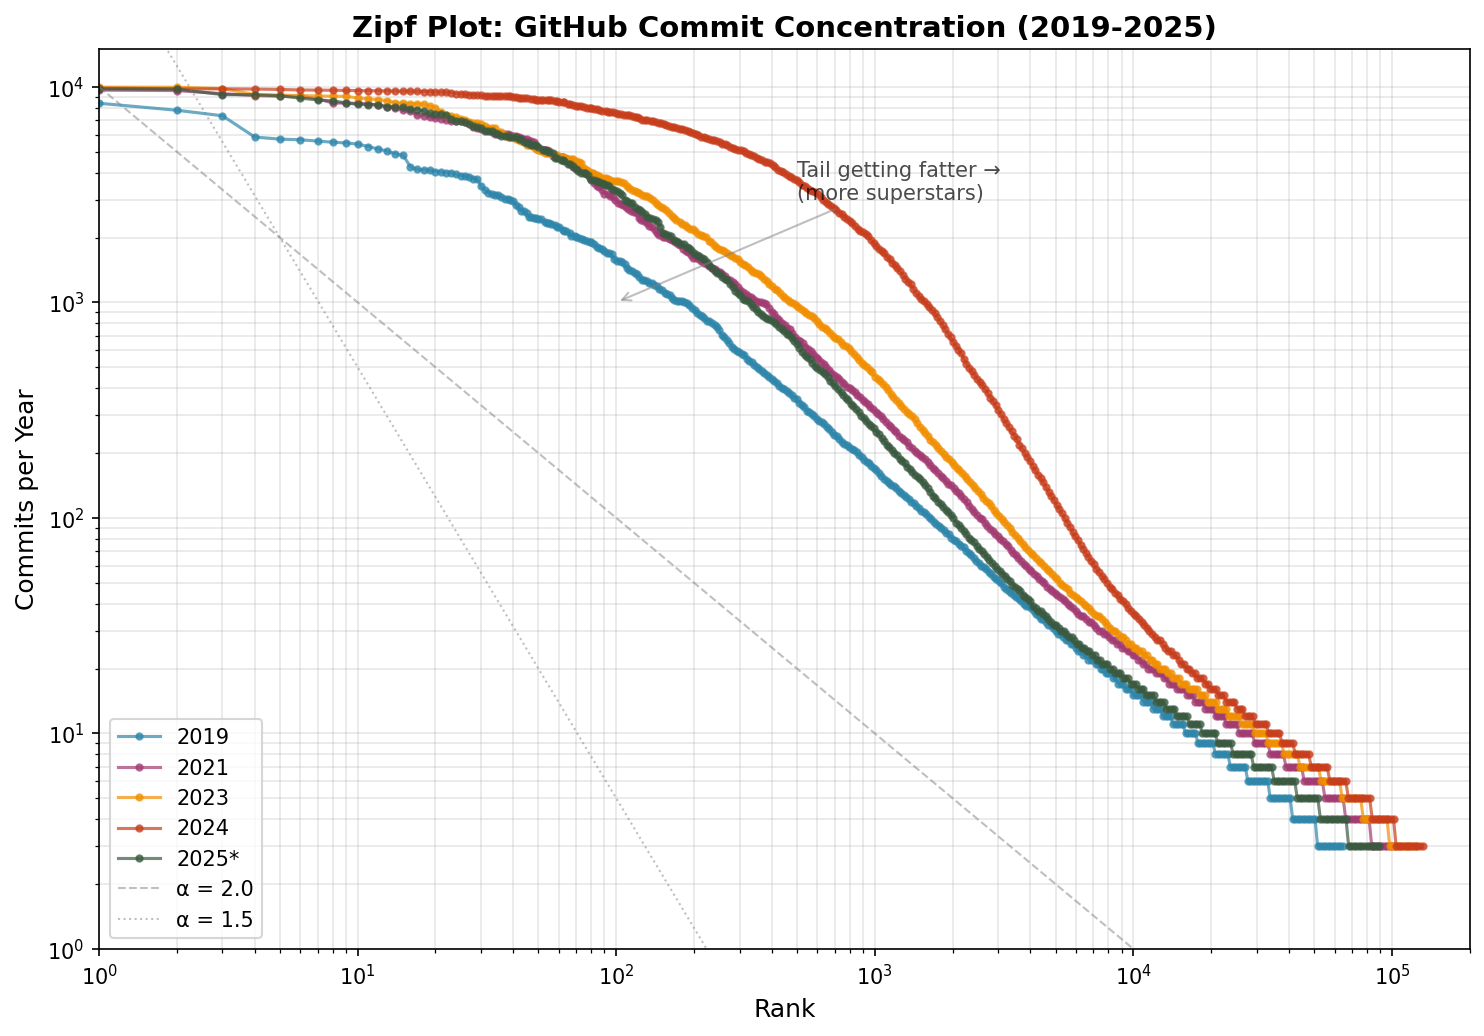
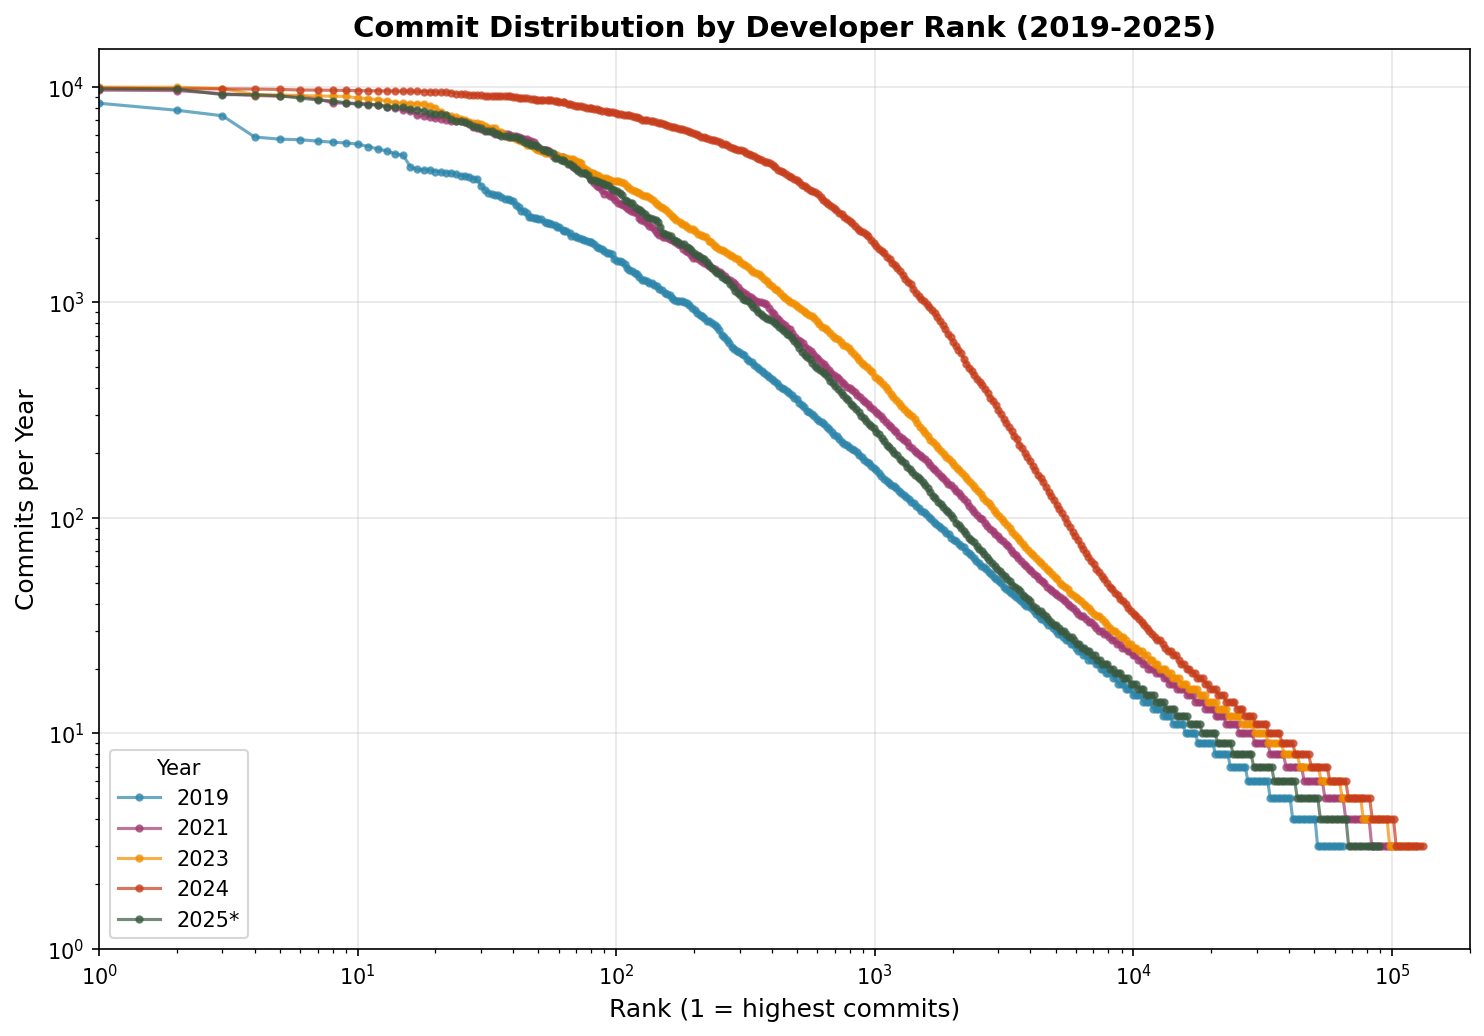
Improve introduction narrative and figure explanations
Key changes:
- Updated intro to include "rotating superstars" finding and counterfactual α
- Simplified Zipf plot: removed confusing reference lines, clearer axis labels
- Rewrote transition matrix section with proper methodology explanation
- Added "How to read this table" section explaining what the numbers mean
- Explained why decreasing persistence challenges "rich-get-richer" hypothesis

diff --git a/scripts/21_zipf_plot.py b/scripts/21_zipf_plot.py
@@ -80,29 +80,12 @@ def create_zipf_plot(df):
                   markersize=3, linewidth=1.5,
                   label=label)
 
-    # Reference lines for different α values
-    x_ref = np.array([1, 100000])
-
-    # α = 2.0 → slope = -1/(2-1) = -1.0
-    y_ref_2 = 10000 * (x_ref ** -1.0)
-    ax.loglog(x_ref, y_ref_2, '--', color='gray', alpha=0.5, linewidth=1, label='α = 2.0')
-
-    # α = 1.5 → slope = -1/(1.5-1) = -2.0
-    y_ref_15 = 50000 * (x_ref ** -2.0)
-    ax.loglog(x_ref, y_ref_15, ':', color='gray', alpha=0.5, linewidth=1, label='α = 1.5')
-
-    ax.set_xlabel('Rank', fontsize=12)
+    ax.set_xlabel('Rank (1 = highest commits)', fontsize=12)
     ax.set_ylabel('Commits per Year', fontsize=12)
-    ax.set_title('Zipf Plot: GitHub Commit Concentration (2019-2025)', fontsize=14, fontweight='bold')
+    ax.set_title('Commit Distribution by Developer Rank (2019-2025)', fontsize=14, fontweight='bold')
 
-    ax.legend(loc='lower left', fontsize=10)
-    ax.grid(True, alpha=0.3, which='both')
-
-    # Add annotation
-    ax.annotate('Tail getting fatter →\n(more superstars)',
-                xy=(100, 1000), xytext=(500, 3000),
-                fontsize=10, alpha=0.7,
-                arrowprops=dict(arrowstyle='->', color='gray', alpha=0.5))
+    ax.legend(loc='lower left', fontsize=10, title='Year')
+    ax.grid(True, alpha=0.3, which='major')
 
     ax.set_xlim(1, 200000)
     ax.set_ylim(1, 15000)

diff --git a/README.md b/README.md
@@ -21,7 +21,7 @@ GitHub hosts over 100 million developers and serves as the primary platform for 
 
 ### Key Findings
 
-**The rise of superstar coders happened in two waves — driven by different factors with different adoption lags.**
+**The rise of superstar coders happened in two waves — but with a twist: these are *rotating* superstars, not persistent ones.**
 
 We analyze GitHub commit concentration from 2019-2025 (through October 31) among multi-repo developers. The power law exponent α measures concentration: **lower α = more concentration** (see Section 3 for interpretation).
 
@@ -58,6 +58,10 @@ Remember: **lower α = more concentration.** A declining α means extreme values
 - *Org developers:* Saw slow concentration growth through 2024, likely dampened by team structures, code review processes, and organizational procurement cycles that created **adoption lag** for new AI tools. **In 2025, this lag ended.** Enterprise AI coding tools became production-ready (Claude Code, Codex), passed security reviews, and concentration sharply accelerated.
 
 **The adoption lag hypothesis:** Concentration rose among personal developers first because individuals adopt new tools faster than organizations. Org developers saw concentration rise later (2025) once AI tools cleared enterprise adoption hurdles. The ~2-3 year lag between personal concentration (2020-2022) and org concentration (2025) reflects typical enterprise technology adoption cycles.
+
+**The rotating superstars finding:** Surprisingly, top-1% persistence *decreased* post-AI (from 23.6% to 14.2%). This suggests concentration is not about the *same* developers pulling further ahead each year. Instead, AI enables **breakthrough years** — different developers have exceptional output in different years. The distribution concentrates because *someone* always has a breakthrough year, not because persistent superstars dominate.
+
+**Concentration is driven by extremes:** Counterfactual analysis shows only 7.7% of the α decline persists after excluding the top 5% of accounts. This confirms concentration reflects a small number of developers with extreme output, not a broad distributional shift.
 
 **Caveat:** GH Archive contains only **public repositories**. Private organization repos (where most enterprise development occurs) are not captured. Our "org developers" are those contributing to *public* org repos (open-source foundations, public company projects).
 
@@ -412,19 +416,29 @@ The ceiling creates a **conservative bias** in our 2024 estimates. If we include
 
 This supports our main finding: concentration is increasing, and our estimates are likely lower bounds.
 
-### 4.4 Zipf Rank-Size Plot: Visualizing the Fat Tail
+### 4.4 Zipf Rank-Size Plot: Visualizing Concentration
 
-The Zipf plot shows log(rank) vs log(commits) for each year. The slope equals −1/(α−1), so a flattening line indicates increasing concentration (fatter tail). This is the most intuitive visualization of concentration.
+The Zipf plot ranks all developers by commits (rank 1 = highest) and plots rank vs commits on log-log axes.
+
+**How to read it:** A line sitting *higher* means developers at each rank have more commits. If the 2024 line sits above the 2019 line, then the rank-100 developer in 2024 has more commits than the rank-100 developer in 2019.
 
 ![Zipf Rank-Size Plot (2019-2025)](output/zipf_rank_size.png)
 
-*Figure: Zipf rank-size plot showing commit distributions by year. Later years (2024, 2025) show flatter slopes in the upper tail, indicating more extreme values — consistent with declining α. Reference lines show theoretical slopes for α = 2.0 and α = 1.5.*
+*Figure: Zipf rank-size plot. Each line shows one year's distribution. The 2024 line (red) sits above earlier years throughout the distribution, meaning top performers have pulled further ahead.*
 
-The visual is striking: the 2024 line (red) sits above other years throughout the rank distribution, especially in the tail. This means developers at every rank have higher commit counts, but the effect is strongest for top performers.
+**What this shows:** The 2024 line sits above all other years, especially at low ranks (top performers). This means the gap between top developers and typical developers widened — concentration increased. The effect is visible across the entire distribution but strongest in the upper tail.
 
 ### 4.5 Transition Matrix: Are Superstars Persistent?
 
-Do top performers stay at the top, or is high output a "lucky year" phenomenon? We track developers appearing in consecutive years and measure what fraction of top-1% developers remain in the top 1% the following year.
+Do top performers stay at the top, or is high output a "lucky year" phenomenon?
+
+**Method:** We build a Markov transition matrix tracking developer mobility across commit quantiles:
+
+1. **Identify common developers:** Find developers who appear in both year T and year T+1
+2. **Assign quantiles:** For each year, classify developers into Top 1%, Top 10%, Middle, or Bottom 50% based on that year's commit distribution
+3. **Compute transitions:** For each quantile in year T, calculate what fraction moved to each quantile in year T+1
+
+For example, if 100 developers were in the Top 1% in 2019, and 24 of them were also in the Top 1% in 2020, then Top 1% → Top 1% persistence = 24%.
 
 | Transition | n (common devs) | Top 1% → Top 1% | Top 1% → Top 10% |
 |:----------:|:---------------:|:---------------:|:----------------:|
@@ -437,7 +451,16 @@ Do top performers stay at the top, or is high output a "lucky year" phenomenon? 
 
 *2025 data: January–October only (10 months). Source: `output/transition_matrix_results.csv`*
 
-**Summary:**
+**How to read this table:**
+
+- **Top 1% → Top 1% = 23.8%** means: Of developers who were in the top 1% in 2019, only 23.8% were still in the top 1% in 2020. The other 76.2% dropped to lower quantiles.
+- **Top 1% → Top 10% = 56.2%** means: Of top-1% developers in 2019, 56.2% remained in the top 10% (including top 1%) in 2020. So ~44% fell below the top 10%.
+
+**What these numbers tell us:**
+
+Even before AI tools, top-1% status was **not sticky**. Only ~24% of top performers stayed in the top 1% the following year. This is lower than you might expect if "superstars" were a stable class of developers. Instead, there's substantial year-over-year churn at the top.
+
+**The post-AI collapse in persistence:**
 
 | Period | Avg Top 1% Persistence |
 |--------|:----------------------:|
@@ -445,15 +468,24 @@ Do top performers stay at the top, or is high output a "lucky year" phenomenon? 
 | Post-AI (2022-2024) | 14.2% |
 | Change | −9.4 pp |
 
-**Key finding: Persistence *decreased* post-AI.** This is the opposite of what a simple "rich-get-richer" story would predict. Instead of the same superstars pulling further ahead each year, we see **rotating superstars** — different developers having exceptional years.
+After 2022, persistence dropped sharply — from ~24% to ~9%. This means top-1% status became *even less stable* post-AI.
 
 ![Top 1% Persistence Over Time](output/top1_persistence.png)
 
-*Figure: Top-1% year-over-year persistence rates. Persistence drops sharply in 2023→2024, coinciding with the automation surge.*
+*Figure: Top-1% year-over-year persistence. The sharp drop in 2023→2024 suggests increased churn at the top.*
 
-**Interpretation:** AI may enable "breakthrough years" rather than persistent advantage. The distribution concentrates because *someone* always has an exceptional year using AI tools, not because the *same* developers dominate persistently. This is a different mechanism than classic preferential attachment.
+**Why this matters for the "superstar" hypothesis:**
 
-**Caveat:** The sharp drop in 2023→2024 persistence requires explanation. Since we filter accounts >10,000 commits/year, the automation explosion doesn't directly affect these numbers. Possible explanations: (1) influx of new high-performers in 2024 displacing incumbents; (2) AI tools enabling different developers to have breakthrough years; (3) the 10-month 2025 truncation affecting 2024→2025 comparisons.
+A classic "rich-get-richer" story (preferential attachment) would predict that the *same* developers pull further ahead each year. If AI tools give persistent advantages, we'd expect persistence to *increase* — the same superstars would stay on top.
+
+Instead, we see the opposite: **persistence decreased**. This suggests a different mechanism:
+
+- AI tools enable **breakthrough years** for different developers
+- The distribution concentrates because *someone* always has an exceptional year
+- But it's not the *same* people dominating year after year
+- This is "**rotating superstars**" rather than "persistent superstars"
+
+**Caveat:** The 2023→2024 drop is dramatic (24.7% → 8.6%). Possible explanations: (1) influx of new high-performers displacing incumbents; (2) AI tools enabling different developers to have breakthrough years; (3) changes in how top developers work (more project-hopping). The 2024→2025 comparison is affected by the 10-month truncation.
 
 ---
 
